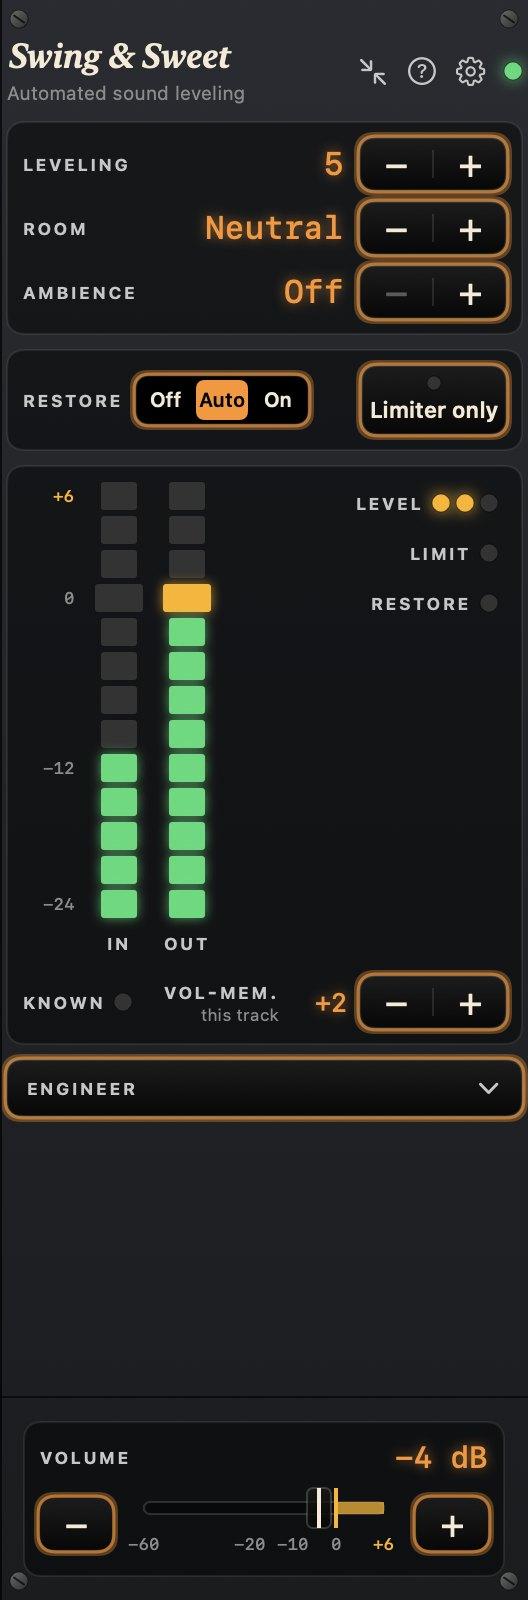
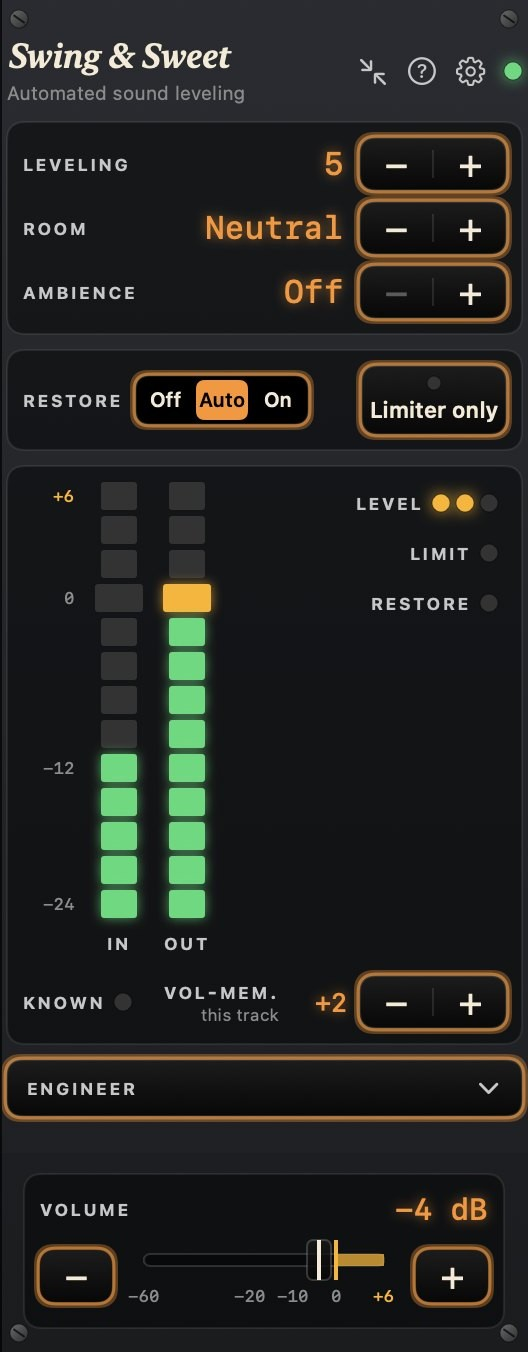
Who it's for, more than ReplayGain, the lookahead and licences; phone layout fixed

diff --git a/index.html b/index.html
@@ -126,6 +126,17 @@
 
   /* Inside a track */
   .inside { margin-top: 18px; background: var(--surface); border: 1px solid var(--rule); border-radius: 18px; padding: 26px 28px 10px; box-shadow: var(--shadow); }
+  /* Against ReplayGain */
+  .vs { margin-top: 18px; background: var(--surface); border: 1px solid var(--rule); border-radius: 18px; padding: 26px 28px 18px; box-shadow: var(--shadow); }
+  .vs h3 { font: 600 24px/1.25 ui-serif, "New York", Georgia, serif; margin: 0 0 6px; }
+  .vs > p { color: var(--muted); margin: 0 0 16px; max-width: 46em; }
+  .vs table { width: 100%; border-collapse: collapse; font-size: 15px; }
+  .vs th { text-align: left; font-size: 12px; font-weight: 700; letter-spacing: .08em; text-transform: uppercase; color: var(--muted); padding: 0 12px 10px 0; }
+  .vs th:not(:first-child), .vs td:not(:first-child) { text-align: center; width: 22%; }
+  .vs td { padding: 11px 12px 11px 0; border-top: 1px solid var(--rule); vertical-align: top; }
+  .vs td small { display: block; color: var(--muted); font-size: 13px; }
+  .vs .yes { color: var(--accent); font-weight: 700; }
+  .vs .no { color: var(--muted); }
   .inside-head { display: flex; flex-wrap: wrap; justify-content: space-between; align-items: flex-end; gap: 10px 24px; margin-bottom: 10px; }
   .inside .label { font-size: 12px; font-weight: 700; letter-spacing: .12em; text-transform: uppercase; color: var(--accent); margin-bottom: 4px; }
   .inside h3 { margin: 0; font: 600 clamp(21px, 2.6vw, 26px)/1.2 ui-serif, "New York", Georgia, serif; }
@@ -149,6 +160,7 @@
   /* Features */
   .feature { display: grid; grid-template-columns: 1fr 1fr; gap: 56px; align-items: center; margin: 0 0 88px; }
   .feature.flip > figure { order: 2; }
+  .feature.narrow { grid-template-columns: 1fr 240px; }
   .feature figure { margin: 0; }
   .feature figure img { display: block; border-radius: 14px; box-shadow: var(--shadow); }
   .feature .text p { color: var(--muted); font-size: 17px; }
@@ -195,6 +207,7 @@
   }
   .chip small { font-weight: 500; color: var(--muted); margin-left: 6px; }
   .fine { color: var(--muted); font-size: 14.5px; max-width: 44em; margin: 0 auto; }
+  .fine + .fine { margin-top: 10px; }
 
   /* Pricing */
   .price {
@@ -221,7 +234,11 @@
   footer.site .links { display: flex; gap: 18px; flex-wrap: wrap; margin-bottom: 8px; }
 
   @media (max-width: 900px) {
-    .feature, .ba, .inside-points { grid-template-columns: 1fr; gap: 28px; }
+    .vs { padding: 22px 16px 14px; }
+    .vs table { font-size: 14px; }
+    .vs th:not(:first-child), .vs td:not(:first-child) { width: 26%; }
+    .feature, .feature.narrow, .ba, .inside-points { grid-template-columns: 1fr; gap: 28px; }
+    .feature.narrow figure { justify-self: center; max-width: 240px; }
     .inside { padding: 22px 18px 6px; }
     .inside .tag { font-size: 22px; }
     .inside .tag.sub { font-size: 20px; }
@@ -249,6 +266,7 @@
     <a class="brand" href="#"><img src="images/icon.png" alt=""><span>Swing &amp; Sweet</span></a>
     <nav>
       <a href="#why">Why</a>
+      <a href="#who">Who it's for</a>
       <a href="#features">Features</a>
       <a href="#player">The player</a>
       <a href="#price">Price</a>
@@ -260,7 +278,7 @@
 <div class="hero">
   <div class="wrap">
     <img class="icon" src="images/icon.png" width="96" height="96" alt="">
-    <p class="eyebrow">For swing and blues DJs · Mac</p>
+    <p class="eyebrow">For swing and blues DJs, dance teachers and jazz lovers · Mac</p>
     <h1>Old records. New remasters. One level.</h1>
     <p class="lede">Swing &amp; Sweet sits between your music and the PA and makes <strong>every track right for the
       dance floor</strong>: quiet passages lifted inside each track, loud brass and hard drums tamed, cleaner 78s and
@@ -287,7 +305,7 @@
   <p class="kicker">Why</p>
   <h2>A swing set spans ninety years of recording</h2>
   <p class="intro">A Bessie Smith 78 from 1925, a Basie big band from 1938 and a modern remaster can sit 10&nbsp;dB
-    apart, and sound as if they come from different planets. Ordinary volume normalization gives each track one
+    apart, and sound as if they come from different planets. Ordinary volume normalization (ReplayGain, Sound Check) gives each track one
     setting and leaves the track itself alone. Swing &amp; Sweet listens 2.5 seconds ahead of what the dancers hear, and
     works on the music as it plays: between the tracks, and inside each one.</p>
   <div class="ba">
@@ -371,6 +389,52 @@
         and the swing of loud and soft stays. Only the extremes are evened out.</p></div>
     </div>
   </div>
+
+  <div class="vs">
+    <h3>More than ReplayGain</h3>
+    <p>ReplayGain, Apple's Sound Check and the streaming apps' own volume normalization measure each track and give it
+      one volume setting. That is where they stop. Swing &amp; Sweet does that too, and then works on the music while it
+      plays.</p>
+    <table>
+      <thead><tr><th></th><th>ReplayGain and the like</th><th>Swing &amp; Sweet</th></tr></thead>
+      <tbody>
+        <tr><td>The same loudness from track to track</td><td class="yes">✓</td><td class="yes">✓</td></tr>
+        <tr><td>Inside each track<small>a quiet solo lifted, a loud shout chorus held back, breaks left alone</small></td><td class="no">—</td><td class="yes">✓</td></tr>
+        <tr><td>Harsh brass and hard drums<small>softened only while they are hard on the ears</small></td><td class="no">—</td><td class="yes">✓</td></tr>
+        <tr><td>Worn 78s<small>clicks, crackle and hiss taken down</small></td><td class="no">—</td><td class="yes">✓</td></tr>
+        <tr><td>Peaks safe for the PA<small>a true-peak limiter set for the PA, after everything else</small></td><td class="no">partly</td><td class="yes">✓</td></tr>
+        <tr><td>Every source the same way<small>Spotify, Music, YouTube in a browser and your own files, with no scan or tags first</small></td><td class="no">—</td><td class="yes">✓</td></tr>
+        <tr><td>Fit the sound to the room<small>room profiles from Padded to Boomy: one knob, set once for the venue</small></td><td class="no">manual EQ</td><td class="yes">✓</td></tr>
+        <tr><td>A little room for dry recordings<small>Ambience: a small reverb mixed into a very dry recording, from a hint to clearly there</small></td><td class="no">DJ effects only</td><td class="yes">✓</td></tr>
+      </tbody>
+    </table>
+  </div>
+</section>
+
+<!-- Who it's for -->
+<section id="who">
+  <p class="kicker">Who it's for</p>
+  <h2>Rather dance than fix the sound</h2>
+  <div class="grid g3" style="margin-top:28px">
+    <div class="card">
+      <div class="ico"><svg viewBox="0 0 24 24" fill="none" stroke="currentColor" stroke-width="2" stroke-linecap="round" stroke-linejoin="round"><path d="M3 14v-2a9 9 0 0118 0v2"/><rect x="3" y="14" width="4" height="6" rx="1"/><rect x="17" y="14" width="4" height="6" rx="1"/></svg></div>
+      <h3>Social DJs</h3>
+      <p>Set the mixer once and keep your attention on the floor and the next track, from the first tune of the
+        evening to the last.</p>
+    </div>
+    <div class="card">
+      <div class="ico"><svg viewBox="0 0 24 24" fill="none" stroke="currentColor" stroke-width="2" stroke-linecap="round" stroke-linejoin="round"><circle cx="12" cy="5" r="2"/><path d="M12 7v6m0 0l-4 7m4-7l4 7M7 10h10"/></svg></div>
+      <h3>Lindy Hop, Balboa and blues teachers</h3>
+      <p>Press play and teach. The next track will not blast or vanish, so you can dance with the class instead of
+        walking back to the volume between every song.</p>
+    </div>
+    <div class="card">
+      <div class="ico"><svg viewBox="0 0 24 24" fill="none" stroke="currentColor" stroke-width="2" stroke-linecap="round" stroke-linejoin="round"><path d="M3 11l9-7 9 7v9a1 1 0 01-1 1h-5v-6H9v6H4a1 1 0 01-1-1z"/></svg></div>
+      <h3>Classic jazz at home</h3>
+      <p>A whole evening of 1920s 78s, swing-era big bands and modern remasters at one comfortable level, with the
+        worst crackle taken down, on your speakers, your Sonos or your headphones.</p>
+    </div>
+  </div>
 </section>
 
 <!-- Features -->
@@ -409,7 +473,7 @@
     </div>
   </div>
 
-  <div class="feature narrow" style="grid-template-columns:1fr 240px">
+  <div class="feature narrow">
     <div class="text">
       <h3>Fit the room, set each track once</h3>
       <p>Two controls a DJ reaches for all night. Both sit on the front panel, and both are kept apart from the master
@@ -425,7 +489,7 @@
           track, so moving one never changes the other.</li>
       </ul>
     </div>
-    <figure><img src="images/player-card.jpg" width="240" height="727" alt="The sound card with Room, Vol-mem. for this track and the master Volume"></figure>
+    <figure><img src="images/player-card.jpg" width="240" height="615" alt="The sound card with Room, Vol-mem. for this track and the master Volume"></figure>
   </div>
 
   <div class="grid g2">
@@ -475,7 +539,9 @@
 <section id="sources" class="center">
   <p class="kicker">Sources</p>
   <h2>Works with what you already play from</h2>
-  <p class="intro">No drivers, no cables between apps. Choose the app in Setup, press Power, and its sound is processed.</p>
+  <p class="intro">Swing &amp; Sweet is not a music player or a streaming app. Your music app plays the music as it
+    always does; Swing &amp; Sweet takes the sound it plays on this Mac, processes it and passes it on to the PA. No
+    drivers, no cables between apps: choose the app in Setup and press Power.</p>
   <div class="chips">
     <span class="chip">Spotify</span>
     <span class="chip">Apple Music</span>
@@ -484,14 +550,17 @@
     <span class="chip">DJ programs <small>such as djay or Mixxx</small></span>
     <span class="chip">The built-in player</span>
   </div>
-  <p class="fine">With Spotify and Music, pause, skip and seek are followed at once. Other apps are processed from their
-    sound alone. Out to the headphone jack and your mixer, a USB interface, or AirPlay and Sonos at home.</p>
+  <p class="fine">With Spotify, Music and the built-in player, pause, skip and seek reach the room within about half a
+    second. Other apps are processed from their sound alone, so the room hears them 2.5&nbsp;s after you act. Out to
+    the headphone jack and your mixer, a USB interface, or AirPlay and Sonos at home.</p>
+  <p class="fine">Playing music in public needs the right licences: the streaming service's terms and the venue's
+    licences are the DJ's or organiser's to check.</p>
 </section>
 
 <!-- Built for a live floor -->
 <section id="live">
   <p class="kicker">Built for a live floor</p>
-  <h2>The music never stops because of Swing &amp; Sweet</h2>
+  <h2>The music never stops because of Swing&nbsp;&amp;&nbsp;Sweet</h2>
   <div class="grid g3" style="margin-top:28px">
     <div class="card">
       <div class="ico"><svg viewBox="0 0 24 24" fill="none" stroke="currentColor" stroke-width="2" stroke-linecap="round" stroke-linejoin="round"><path d="M12 3l8 3v6c0 5-3.5 8-8 9-4.5-1-8-4-8-9V6z"/><path d="M8.5 12l2.5 2.5 4.5-5"/></svg></div>
@@ -509,7 +578,8 @@
       <div class="ico"><svg viewBox="0 0 24 24" fill="none" stroke="currentColor" stroke-width="2" stroke-linecap="round" stroke-linejoin="round"><rect x="3" y="11" width="18" height="10" rx="2"/><path d="M7 11V7a5 5 0 0110 0v4"/></svg></div>
       <h3>Private by design</h3>
       <p>Nothing is recorded or uploaded. No account, no analytics, no tracking. A few seconds of sound in memory, and
-        that is all.</p>
+        that is all. macOS will still ask for <em>System Audio Recording</em>: that is Apple's name for any access to
+        another app's sound, saved or not.</p>
     </div>
   </div>
 </section>
